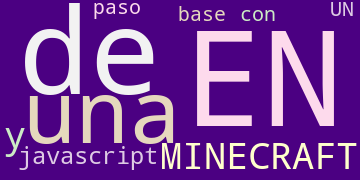
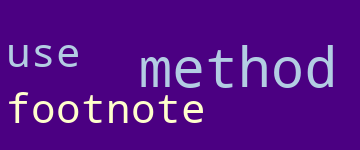
Creación de la clase y módulo  para cloud words

diff --git a/interfaz.py b/interfaz.py
@@ -3,7 +3,7 @@ Creando una interfaz gráfica que reciba la información del usuario
 """
 import PySimpleGUI as sg
 import os.path
-
+from cloud_words import my_wordcloud
 #Temas
 list_themes = ['LightBrown9','BrightColors','LightBrown5','LightBlue5', 'Material1', 'SystemDefault' ]
 sg.theme(list_themes[-2])
@@ -15,15 +15,21 @@ labels = ["Etiqueta1", "Etiqueta2", "Etiqueta3"]
 input_column = [
     [sg.Text('¡BIENVENIDO(A)!')],
     [sg.Text('Nuestra herramienta de análisis de sentimientos le permitirá tener una medida de polaridad y subjetividad de su texto.    ')],
-    [sg.Text('A continuación coloque el texto que desea analizar. Se permite un máximo de 140 caracteres. El texto puede estar en español o en inglés.')],
+    [sg.Text('A continuación coloque el texto que desea analizar. Se permite un máximo de 140 caracteres.')],
+    [sg.Text('El texto puede estar en español o en inglés.')],
     [sg.Multiline(size=(100, 20), key='-MLINE-')],  # identify the multiline via key option
-    [sg.Button('Analizar')],
+    [sg.Button('Analizar', key='-SUBMIT-')],
 ]
 result_column = [
-    [sg.Text('Etiquetas:' + labels[0], key='-T_TAG-')],
-    [sg.Text('Nube de etiquetas' + labels[1], key='-I_CLOUD-')],
+    # [sg.Text('Etiquetas:' + labels[0], key='-TAG-')],
+    [sg.Text('Etiquetas:' )],
+    [sg.Text(labels[0], key='-TAG-', size=(100, 2))],
+    [sg.Text('Nube de etiquetas: ' + labels[1])],
+    [sg.Image(key='-IMAGE-')],
     [sg.Text('Gráfico:' + labels[2])],
 ]
+
+""" Clase para construir la interfaz """
 #Dibujo del Layout por filas
 layout = [
     [sg.Column(input_column)],
@@ -31,20 +37,53 @@ layout = [
 ]
 
 # Crea la ventana
-window = sg.Window('Analizador de sentimientos', layout ).Finalize()
+window = sg.Window('Analizador simple de sentimientos', layout ).Finalize()
 print(sg.Window.get_screen_size())
+print(layout)
+
+
+
+### Probando clase function
+test_text = '''As a footnote, you should use lowercase for method names, and Capital words for classes as you're doing now. It's a good convention. I greatly recommend it.
+You should simply construct the object once in display.py and call all the methods.'''
+
+
+
+
+
 
 # Como interfaz gráfica, debe ejecutarse dentro de un bucle y esperar que el usuario haga algo
 # Este es un ciclo/bucle que procesa "eventos" y obtiene los valores del imput
 while True:
     event, values = window.read()
+    print(event, values)
+
     if event == sg.WIN_CLOSED:
         break
+    if event == '-SUBMIT-':
+        cw_test = my_wordcloud(test_text, 3)
+        cw_test.generate_img()
+        window['-IMAGE-'].update(filename="media/output.png")
+
     print('You entered in the textbox:')
-    print(values['textbox'])  # get the content of multiline via its unique key
+    print(values['-MLINE-'])  # get the content of multiline via its unique key
+    window['-TAG-'].update(values['-MLINE-'])
 
 window.close()
 
+
+
+
+
+
+
+
+
+
+""" sg.Popup('Title',
+         'The results of the window.',
+         'The button clicked was "{}"'.format(event),
+         'The values are', values) """
 
 """
     Demonstrates the new change_submits parameter for inputtext elements

diff --git a/cloud_words.py b/cloud_words.py
@@ -1,34 +1,45 @@
+""" 
+                =====================================
+                Modulo para crear la NUBE DE PALABRAS 
+                =====================================
+                Show which words are the most frequent 
+                among the given text
+
+"""
+
 from wordcloud import WordCloud, STOPWORDS 
 import matplotlib.pyplot as plt 
-
 from os import path
+
+
+""" Clase para crear un wordcloud con mis propios requerimientos"""
+class my_wordcloud:
+    def __init__(self, text, max_wds):     
+        self.text = text
+        self.max_words = max_wds
+        
+    def generate_img(self):
+        stopwords = set(STOPWORDS)          # Las palabras que serán eliminadas. Si es None, se utilizará la lista de STOPWORDS incorporada.
+        wc = WordCloud( width=360,          # create wordcloud object
+                        height=150, 
+                        background_color='indigo',
+                        colormap='Pastel1', 
+                        min_font_size=14,
+                        max_words= self.max_words, 
+                        stopwords=stopwords).generate(self.text)
+
+
+        wc.to_file(path.join(currdir, "media/output.png"))  # save wordcloud
+
+### Test Wordcloud ### 
+
 #__file__ es el nombre de la ruta del archivo desde el que se cargó el módulo, si se cargó desde un archivo
 currdir = path.dirname(__file__)
 
-""" 
-Creando una función que muestre una nube de palabras 
-con las palbras que más nos interesan
-"""
-def create_wordcloud(text):     
-    stopwords = set(STOPWORDS)
- 
-    # create wordcloud object
-    wc = WordCloud( width=360, 
-                    height=180, 
-                    background_color='indigo',
-                    colormap='Pastel1', 
-                    min_font_size=10,
-                    max_words=10, 
-                    stopwords=stopwords).generate(text)
- 
-    # save wordcloud
-    wc.to_file(path.join(currdir, "media/output.png"))
-
-### Test Wordcloud ###
 a_text = ''' Combine Multiple Errors Into Single Crea una API de bitcoin con NodeJS and GraphQL\n EN DIRECTO EN MINECRAFT!!! 
         UN RATETE EN MINECRAFT!! PASEN Y VEAN!! Minecraft Java javascript mojang risas…  En mi carrera tuve asignaturas donde aprendí 
         y me peleé con la base de javascript html css y estoy muy agradecid…  Convert Decimal to Fraction  Cómo hacer un CRUD paso a 
         paso sin necesitar una base de datos en Angular  Código de JavaScript - Cuenta atras hasta una f '''
 
-
-create_wordcloud(a_text)
+new_wordcloud = my_wordcloud(a_text, 8)
+new_wordcloud.generate_img()
